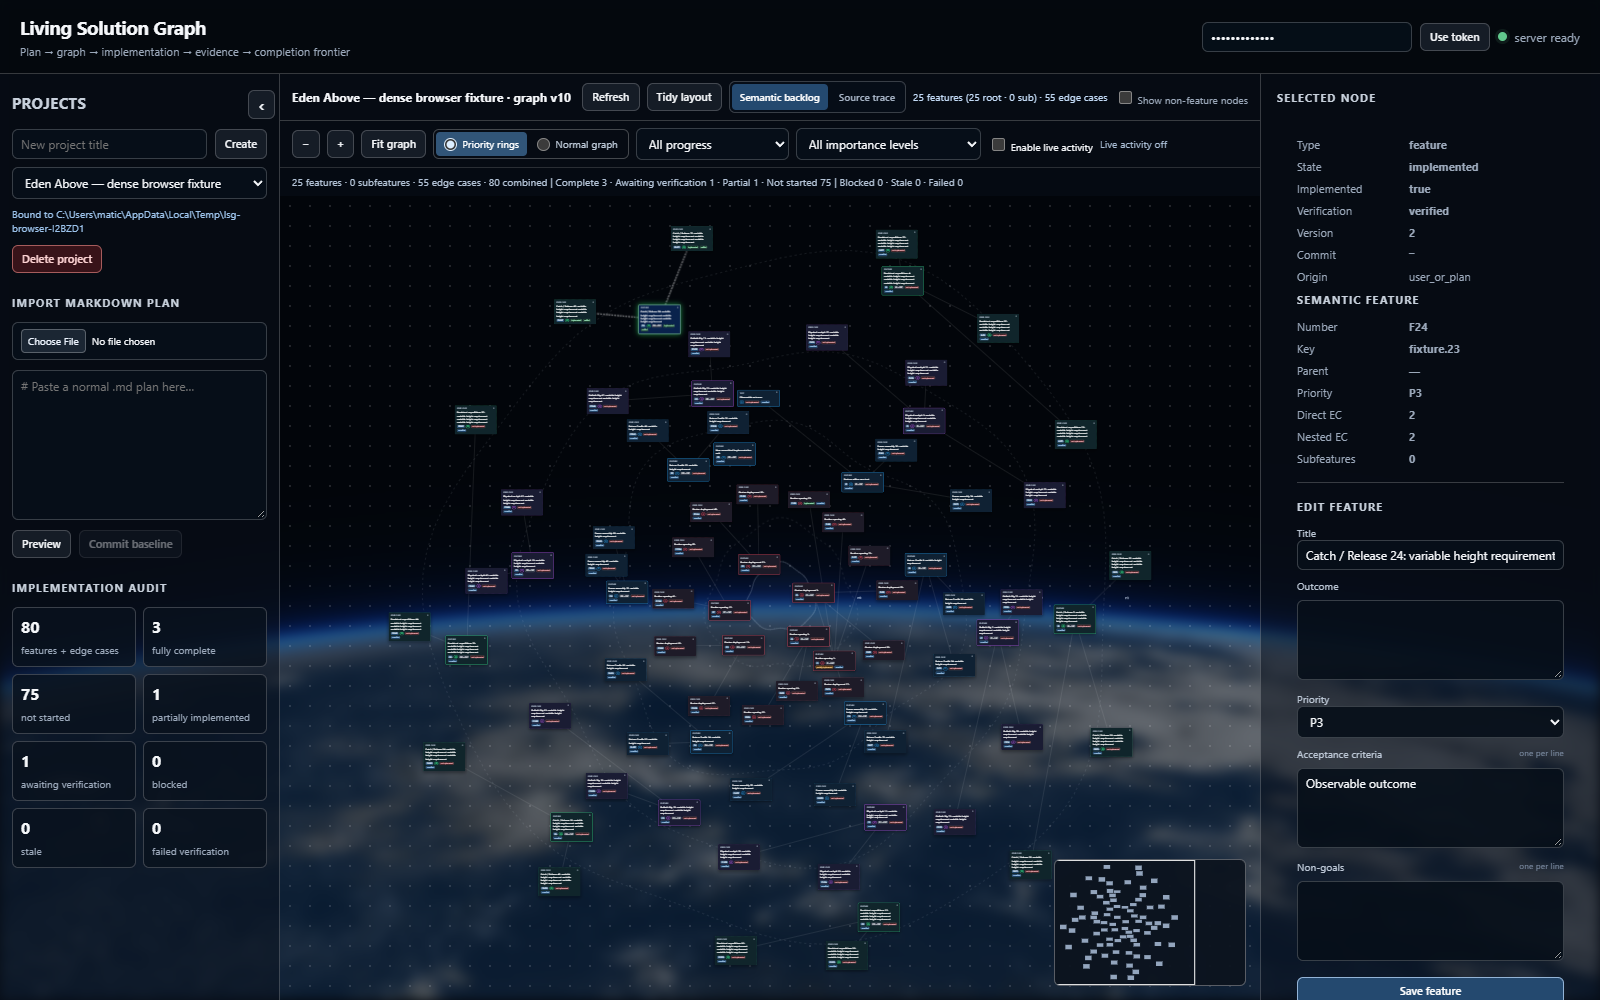
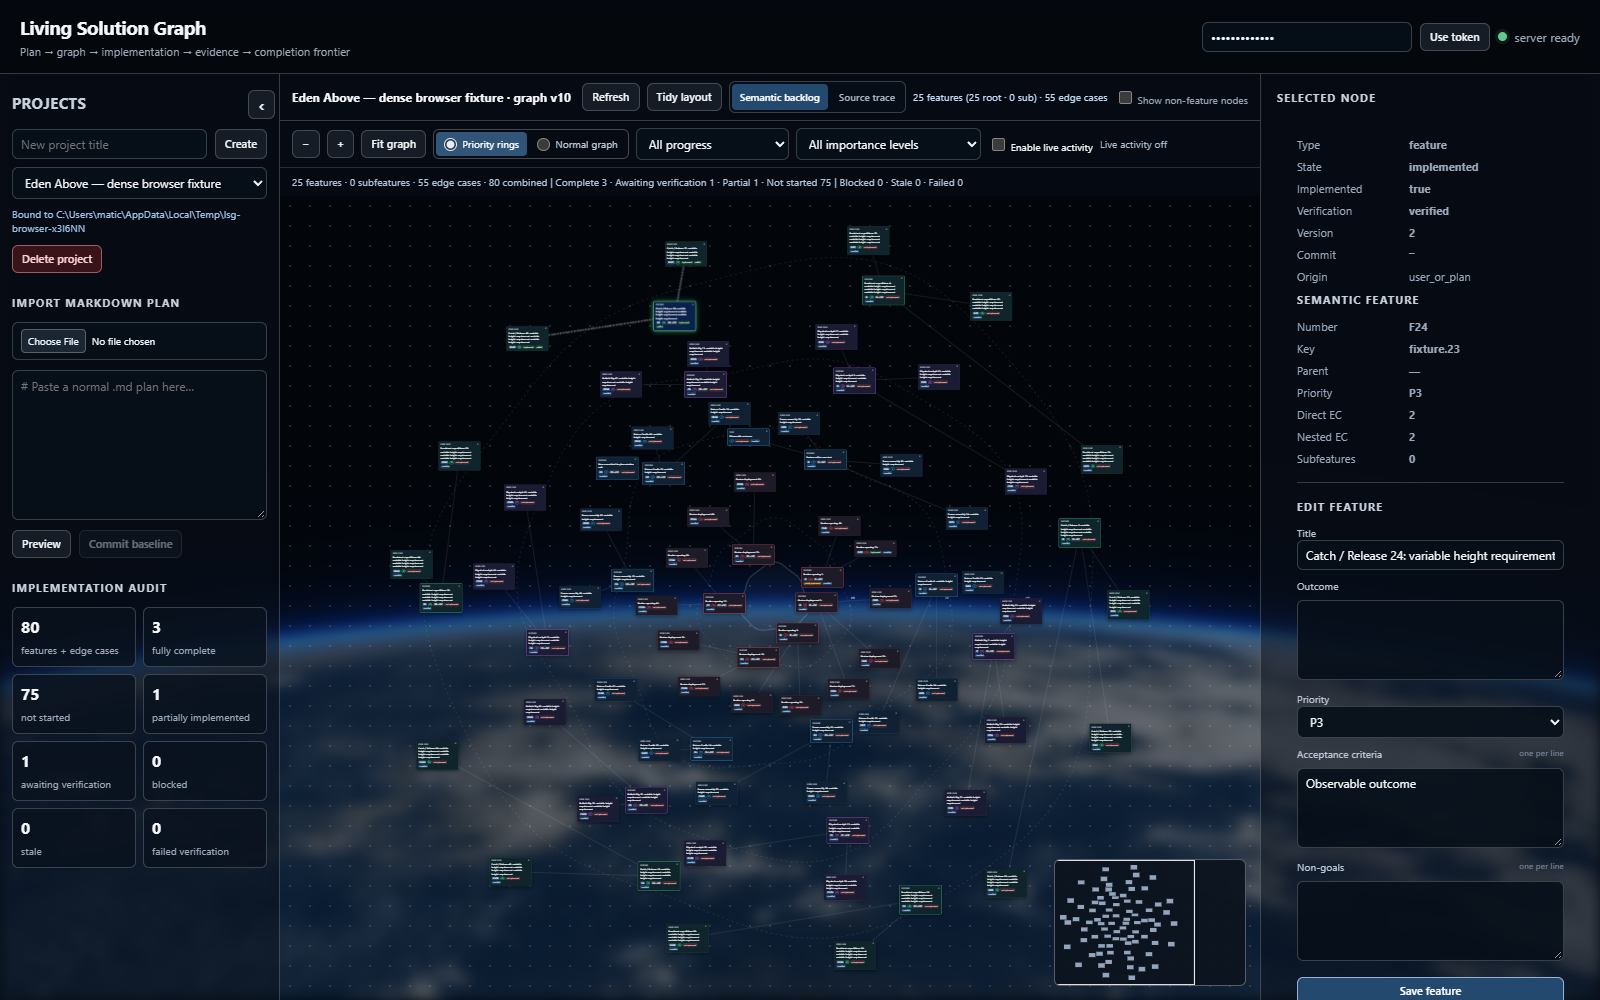
test: stabilize 6.3 release evidence and manifest

diff --git a/CHANGELOG.md b/CHANGELOG.md
@@ -6,6 +6,7 @@
 - Updated MCP discovery instructions, the semantic prompt, `AGENTS.md`, the README, and FAQ to require plan-path clarification, default semantic auto-publication, and live-list/frontier confirmation. Explicit review-only staging remains available.
 - Added paginated `solution.get_missing_plans_by_status` and the compact `missing_plans` status filter. The `implemented` filter includes awaiting-verification and fully-complete items.
 - Cursors now become stale if attached-plan changes alter missing-plan page membership, preventing pagination from silently skipping newly missing plans.
+- Manifest generation omits root-level npm pack output while preserving checksums for tracked distribution archives.
 - Fixed the feature editor's asynchronous selection race, kept saved feature fields editable, and refreshed node/project versions around plan and edge-case edits/deletions.
 - Added deep-blue implemented-feature cards with green photon outlines/glow, orange partial-progress badges, and reduced-motion support. Preserved priority colors on badges.
 - No SQLite migration or destructive data rewrite; existing project IDs, feature numbers, plans, histories, and prior releases remain compatible.

diff --git a/README.md b/README.md
@@ -20,7 +20,7 @@
 <p align="center">
   <a href="https://github.com/medenijazbec/living-solution-graph/releases"><img alt="release" src="https://img.shields.io/github/v/release/medenijazbec/living-solution-graph?style=flat-square&color=2f81f7&cacheSeconds=60"></a>
   <a href="https://github.com/medenijazbec/living-solution-graph/actions/workflows/ci.yml"><img alt="CI" src="https://img.shields.io/github/actions/workflow/status/medenijazbec/living-solution-graph/ci.yml?branch=master&style=flat-square&label=build&cacheSeconds=60"></a>
-  <img alt="tests" src="https://img.shields.io/badge/tests-65%20passing-2ea043?style=flat-square">
+  <img alt="tests" src="https://img.shields.io/badge/tests-66%20passing-2ea043?style=flat-square">
   <img alt="Node.js" src="https://img.shields.io/badge/Node.js-%E2%89%A522.5-339933?style=flat-square&logo=nodedotjs&logoColor=white">
   <img alt="MCP" src="https://img.shields.io/badge/MCP-stdio%20%7C%20HTTP-7c3aed?style=flat-square">
   <img alt="runtime dependencies" src="https://img.shields.io/badge/runtime%20dependencies-0-0ea5e9?style=flat-square">
